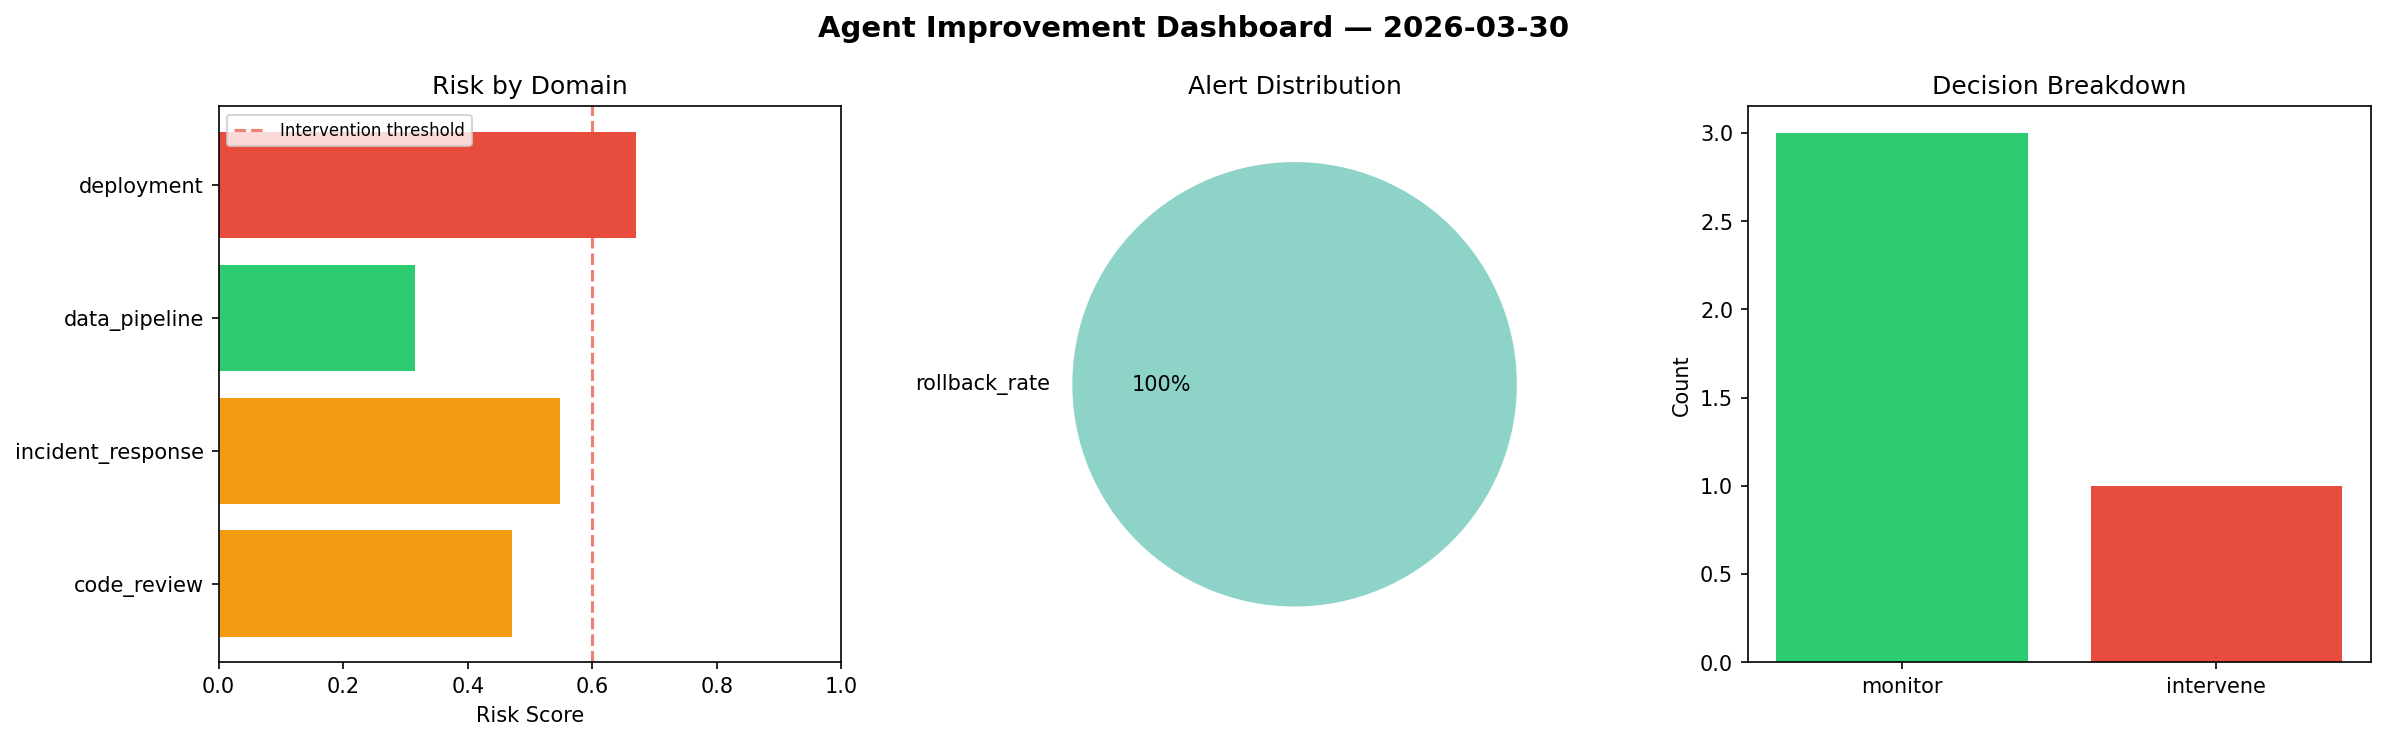
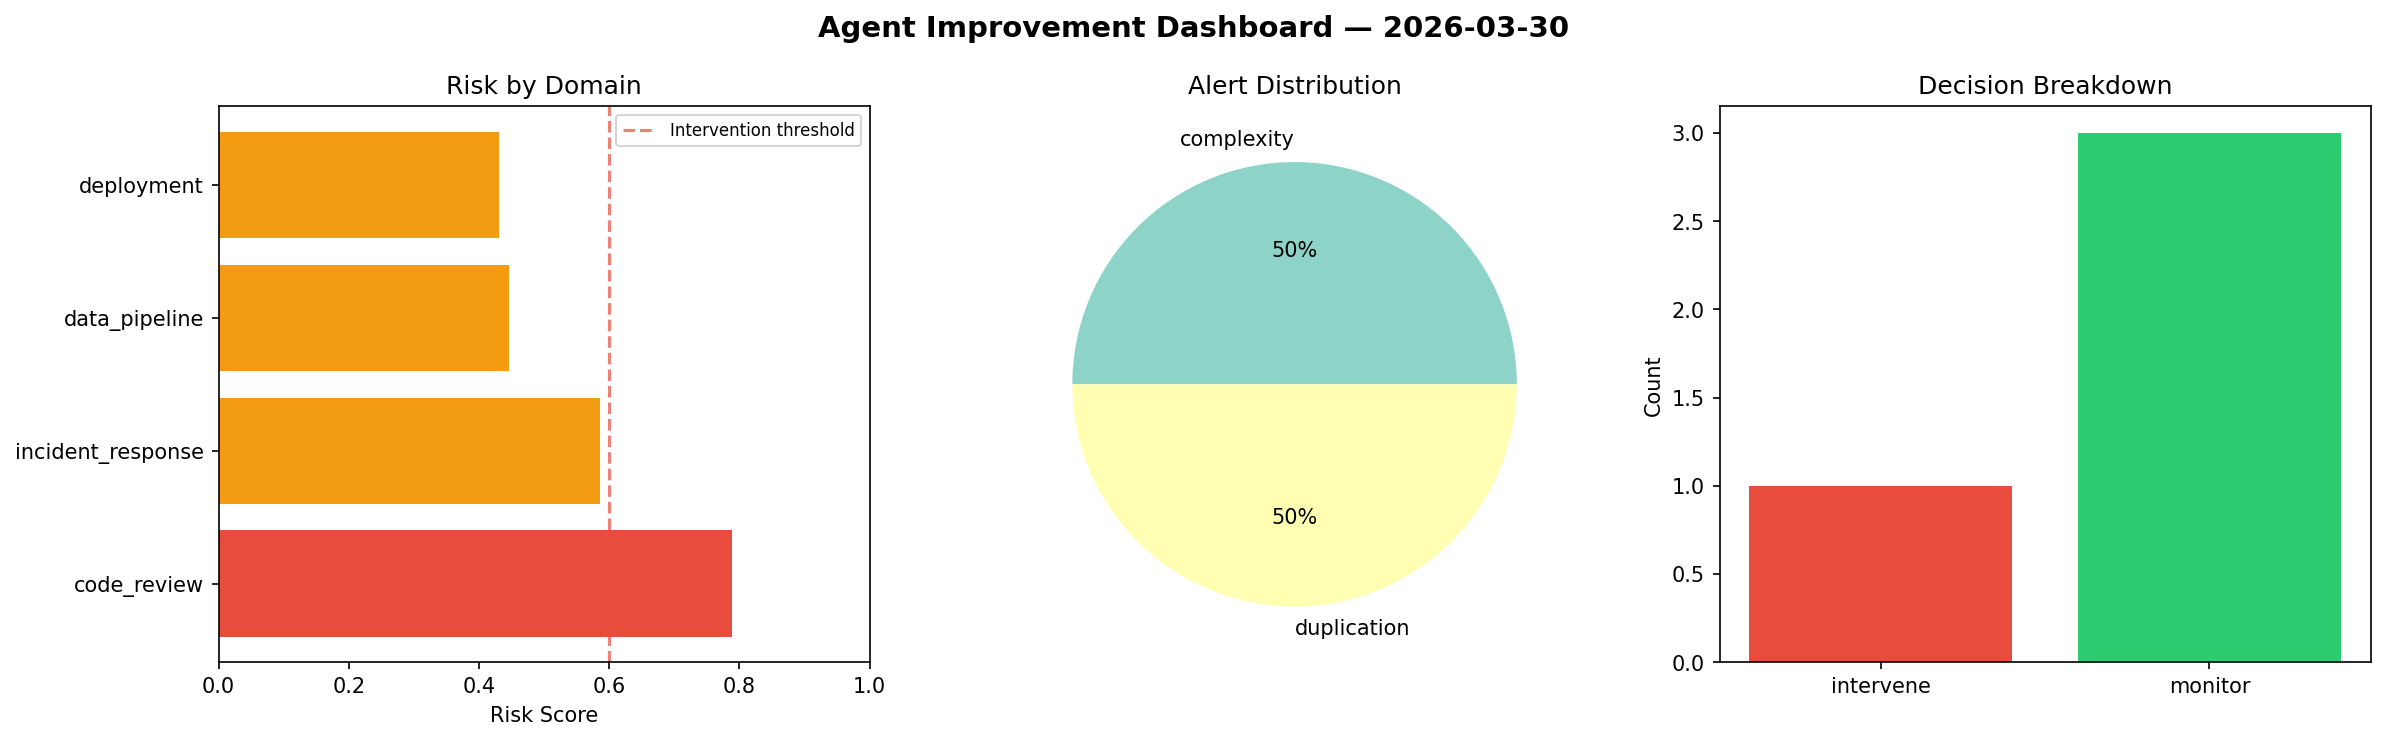
agent-improvement: daily cycle 2026-03-30T21:01

diff --git a/logs/2026-03-30.md b/logs/2026-03-30.md
@@ -1,6 +1,6 @@
 # Agent Improvement Report — 2026-03-30
 
-**Cycle ID:** `ad5abda3` | **Avg Risk:** 0.5015 | **Interventions:** 1/4
+**Cycle ID:** `74015676` | **Avg Risk:** 0.5624 | **Interventions:** 1/4
 
 ![Dashboard](2026-03-30_dashboard.png)
 
@@ -10,18 +10,18 @@
 
 | Domain | Risk Score | Decision | Alerts |
 |--------|-----------|----------|--------|
-| code_review | 0.4714 | monitor | none |
-| incident_response | 0.548 | monitor | none |
-| data_pipeline | 0.3161 | monitor | none |
-| deployment | 0.6705 | intervene | rollback_rate |
+| code_review | 0.7883 | intervene | complexity, duplication |
+| incident_response | 0.5852 | monitor | none |
+| data_pipeline | 0.446 | monitor | none |
+| deployment | 0.43 | monitor | none |
 
 ## Delta vs Yesterday
 
 | Domain | Today | Yesterday | Change |
 |--------|-------|-----------|--------|
-| code_review | 0.4714 | 0.4373 | 📈 7.8% |
-| incident_response | 0.548 | 0.3568 | 📈 53.6% |
-| data_pipeline | 0.3161 | 0.8162 | 📉 -61.3% |
-| deployment | 0.6705 | 0.3935 | 📈 70.4% |
+| code_review | 0.7883 | 0.4373 | 📈 80.3% |
+| incident_response | 0.5852 | 0.3568 | 📈 64.0% |
+| data_pipeline | 0.446 | 0.8162 | 📉 -45.4% |
+| deployment | 0.43 | 0.3935 | 📈 9.3% |
 
-**Refinement:** `{'adjustment': 'tighten_thresholds', 'trend': 'degrading', 'window': 4}`
+**Refinement:** `{'adjustment': 'maintain', 'trend': 'improving', 'window': 4}`
